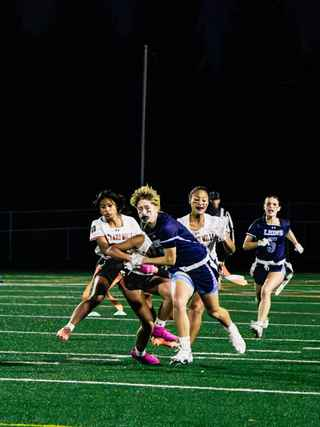
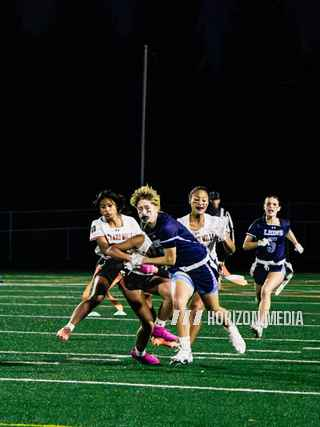
Photos: watermark the smallest busy-mode copies too
Whether a photo is watermarked now depends on its original, not on the
copy's size, so the 320px saver copies carry the mark as well.

Claude-Session: https://claude.ai/code/session_01DKZsuJqVFUU8m5jPJktLAd

Changed region(s): [[0.5312, 0.7002, 0.9688, 0.7611], [0.5, 0.7611, 0.5312, 0.7916]]

diff --git a/tools/make_photo_variants.py b/tools/make_photo_variants.py
@@ -42,8 +42,8 @@ SIZES = {
 }
 # A busy-mode copy is only kept if it is at most this fraction of the web copy's size.
 WORTHWHILE = 0.9
-# Photos narrower than this (the team's round profile pictures) get no watermark:
-# it would be unreadable at that size.
+# Originals narrower than this (the team's round profile pictures) get no
+# watermark on any copy: it would be unreadable at that size.
 WATERMARK_MIN_WIDTH = 400
 # Where the watermark sits: right-aligned, with its bottom edge this far down the
 # photo. Pages crop photos to fit their frames (phones crop the homepage tiles to
@@ -132,9 +132,7 @@ def watermark(image):
     """Draws the Horizon Media mark (the logo's three slashes and the name) onto the photo."""
     from PIL import Image, ImageDraw, ImageFilter, ImageFont
 
-    if image.width < WATERMARK_MIN_WIDTH:
-        return image
-    size = max(12, round(image.width * WATERMARK_WIDTH / 5.2))
+    size = max(8, round(image.width * WATERMARK_WIDTH / 5.2))
     font = ImageFont.truetype(str(FONT), size)
     try:
         font.set_variation_by_axes([800])  # the heavy weight the site's headings use
@@ -165,11 +163,12 @@ def watermark(image):
 def encode(image, max_width, quality):
     from PIL import Image
 
+    marked = image.width >= WATERMARK_MIN_WIDTH
     copy = image
     if copy.width > max_width:
         copy = copy.resize((max_width, round(copy.height * max_width / copy.width)), Image.LANCZOS)
     buffer = io.BytesIO()
-    watermark(copy).save(buffer, "JPEG", quality=quality, optimize=True, progressive=True)
+    (watermark(copy) if marked else copy).save(buffer, "JPEG", quality=quality, optimize=True, progressive=True)
     return buffer.getvalue()
 
 
